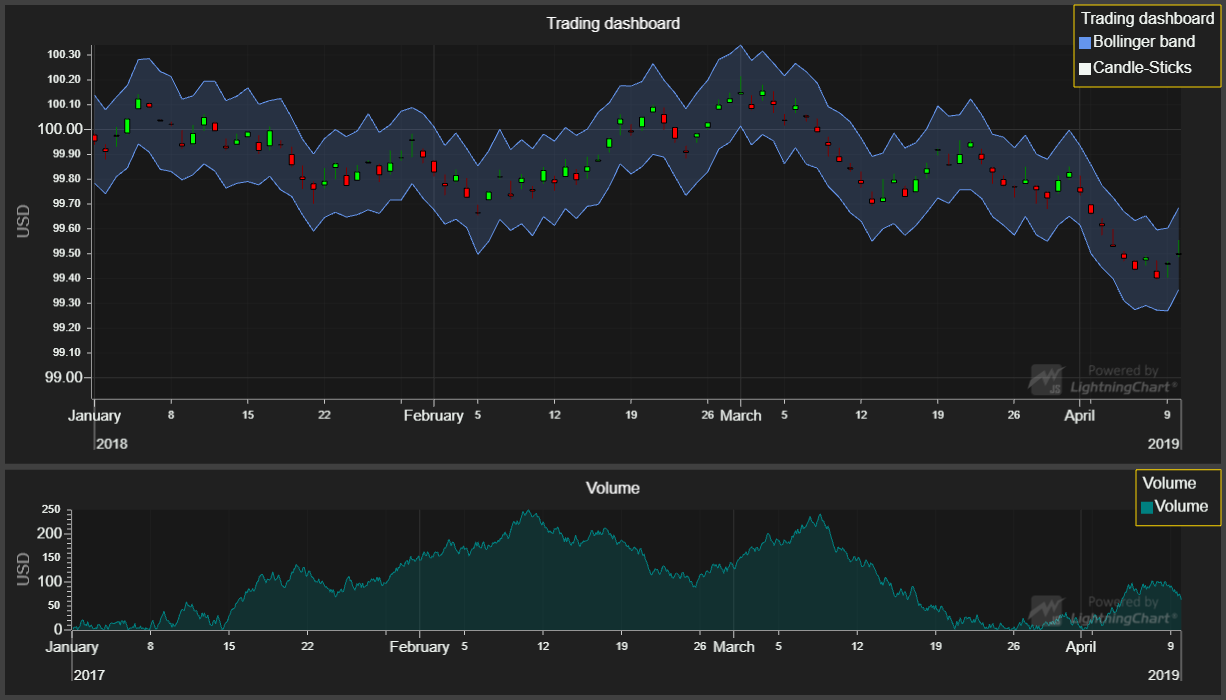
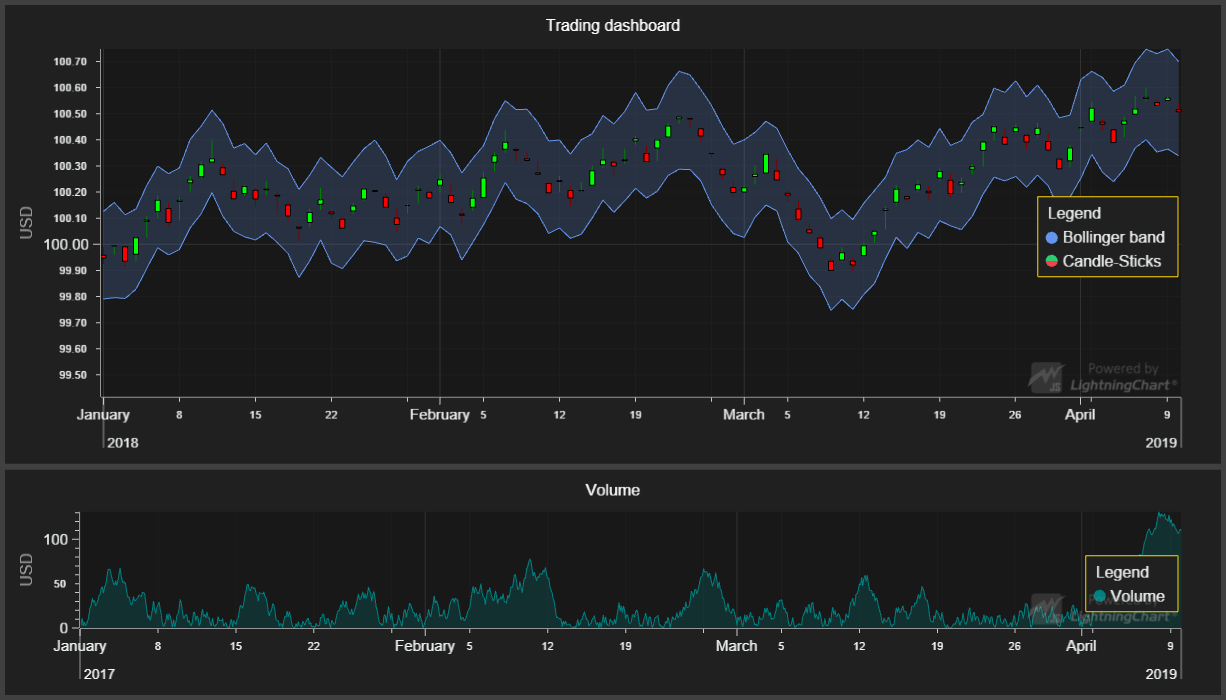
LCJS 3.0.0

diff --git a/src/index.js b/src/index.js
@@ -61,9 +61,7 @@ chartOHLC
 db.setRowHeight(0, 2)
 
 // Create a LegendBox for Candle-Stick and Bollinger Band
-const legendBoxOHLC = chartOHLC.addLegendBox(LegendBoxBuilders.HorizontalLegendBox)
-    .setPosition({ x: 100, y: 100 })
-    .setOrigin(UIOrigins.RightTop)
+const legendBoxOHLC = chartOHLC.addLegendBox(LegendBoxBuilders.VerticalLegendBox)
 
 // Define function which sets Y axis intervals nicely.
 let setViewNicely
@@ -163,9 +161,7 @@ chartVolume
     .setTitle('Volume')
     .setPadding({ right: 40 })
 // Create a LegendBox as part of the chart.
-const legendBoxVolume = chartVolume.addLegendBox(LegendBoxBuilders.HorizontalLegendBox)
-    .setPosition({ x: 100, y: 100 })
-    .setOrigin(UIOrigins.RightTop)
+const legendBoxVolume = chartVolume.addLegendBox(LegendBoxBuilders.VerticalLegendBox)
 
 // Create Y-axis for series (view is set manually).
 const volumeAxisY = chartVolume.getDefaultAxisY()
@@ -206,16 +202,9 @@ createProgressiveTraceGenerator()
 //#endregion
 
 
-// Add series to LegendBox and style entries.
-const entries1 = legendBoxOHLC.add(chartOHLC)
-entries1[0]
-    .setButtonOnFillStyle(areaRangeStroke.getFillStyle())
-    .setButtonOnStrokeStyle(emptyLine)
-
-const entries2 = legendBoxVolume.add(chartVolume)
-entries2[0]
-    .setButtonOnFillStyle(volumeStrokeStyle.getFillStyle())
-    .setButtonOnStrokeStyle(emptyLine)
+// Add series to LegendBox.
+legendBoxOHLC.add(chartOHLC)
+legendBoxVolume.add(chartVolume)
 
 setViewNicely = () => {
     const yBoundsStock = { min: areaRange.getYMin(), max: areaRange.getYMax(), range: areaRange.getYMax() - areaRange.getYMin() }
@@ -225,7 +214,7 @@ setViewNicely = () => {
     stockAxisY.setInterval(yBoundsStock.min - yBoundsStock.range * .33, yBoundsStock.max)
 }
 
-stock.setResultTableFormatter((builder, series, segment) => {
+stock.setCursorResultTableFormatter((builder, series, segment) => {
     return builder
         .addRow(series.getName())
         .addRow(series.axisX.formatValue(segment.getPosition()))
@@ -235,7 +224,7 @@ stock.setResultTableFormatter((builder, series, segment) => {
         .addRow('Close ' + segment.getClose().toFixed(2))
 })
 
-volume.setResultTableFormatter((builder, series, position, high, low) => {
+volume.setCursorResultTableFormatter((builder, series, position, high, low) => {
     return builder
         .addRow(series.getName())
         .addRow(series.axisX.formatValue(position))

diff --git a/README.md b/README.md
@@ -40,7 +40,7 @@ Legend in this example is a UI object embedded to the chart using predefined sim
 - Vertical legend
 
     ```javascript
-    // Create a horizontal legend embedded to the chart.
+    // Create a vertical legend embedded to the chart.
     const legend = chart.addLegendBox( LegendBoxBuilders.VerticalLegendBox )
     ```
 
@@ -51,7 +51,6 @@ The whole chart with contained series, the whole dashboard with contained charts
     ```javascript
     // Attach the chart and its series to legend.
     // Creates a group with charts.
-    // Return attached entries.
     const entries = legend.add( chart )
     ```
 
@@ -60,7 +59,6 @@ The whole chart with contained series, the whole dashboard with contained charts
     ```javascript
     // Attach the dashboard with charts with series to legend.
     // Creates groups of charts with series.
-    // Return attached entries.
     const entries = legend.add( dashboard )
     ```
 
@@ -69,7 +67,6 @@ The whole chart with contained series, the whole dashboard with contained charts
     ```javascript
     // Attach the individual series as a group to legend.
     // Creates a group from a single series.
-    // Return attached entry.
     const entries = legend.add( series )
     ```
 
@@ -108,13 +105,13 @@ Direct developer email support can be purchased through a [Support Plan][4] or b
 © Arction Ltd 2009-2020. All rights reserved.
 
 
-[XY cartesian chart]: https://www.arction.com/lightningchart-js-api-documentation/v2.2.0/classes/chartxy.html
-[Axis]: https://www.arction.com/lightningchart-js-api-documentation/v2.2.0/classes/axis.html
-[Axis tick strategies]: https://www.arction.com/lightningchart-js-api-documentation/v2.2.0/globals.html#axistickstrategies
-[Horizontal legend box]: https://www.arction.com/lightningchart-js-api-documentation/v2.2.0/globals.html#legendboxbuilders.horizontallegendbox
-[Vertical legend box]: https://www.arction.com/lightningchart-js-api-documentation/v2.2.0/globals.html#legendboxbuilders.verticallegendbox
-[UI position origins]: https://www.arction.com/lightningchart-js-api-documentation/v2.2.0/globals.html#uiorigins
-[Solid FillStyle]: https://www.arction.com/lightningchart-js-api-documentation/v2.2.0/classes/solidfill.html
-[RGBA color factory]: https://www.arction.com/lightningchart-js-api-documentation/v2.2.0/globals.html#colorrgba
-[Solid LineStyle]: https://www.arction.com/lightningchart-js-api-documentation/v2.2.0/classes/solidline.html
+[XY cartesian chart]: https://www.arction.com/lightningchart-js-api-documentation/v3.0.0/classes/chartxy.html
+[Axis]: https://www.arction.com/lightningchart-js-api-documentation/v3.0.0/classes/axis.html
+[Axis tick strategies]: https://www.arction.com/lightningchart-js-api-documentation/v3.0.0/globals.html#axistickstrategies
+[Horizontal legend box]: https://www.arction.com/lightningchart-js-api-documentation/v3.0.0/globals.html#legendboxbuilders.horizontallegendbox
+[Vertical legend box]: https://www.arction.com/lightningchart-js-api-documentation/v3.0.0/globals.html#legendboxbuilders.verticallegendbox
+[UI position origins]: https://www.arction.com/lightningchart-js-api-documentation/v3.0.0/globals.html#uiorigins
+[Solid FillStyle]: https://www.arction.com/lightningchart-js-api-documentation/v3.0.0/classes/solidfill.html
+[RGBA color factory]: https://www.arction.com/lightningchart-js-api-documentation/v3.0.0/globals.html#colorrgba
+[Solid LineStyle]: https://www.arction.com/lightningchart-js-api-documentation/v3.0.0/classes/solidline.html
 
